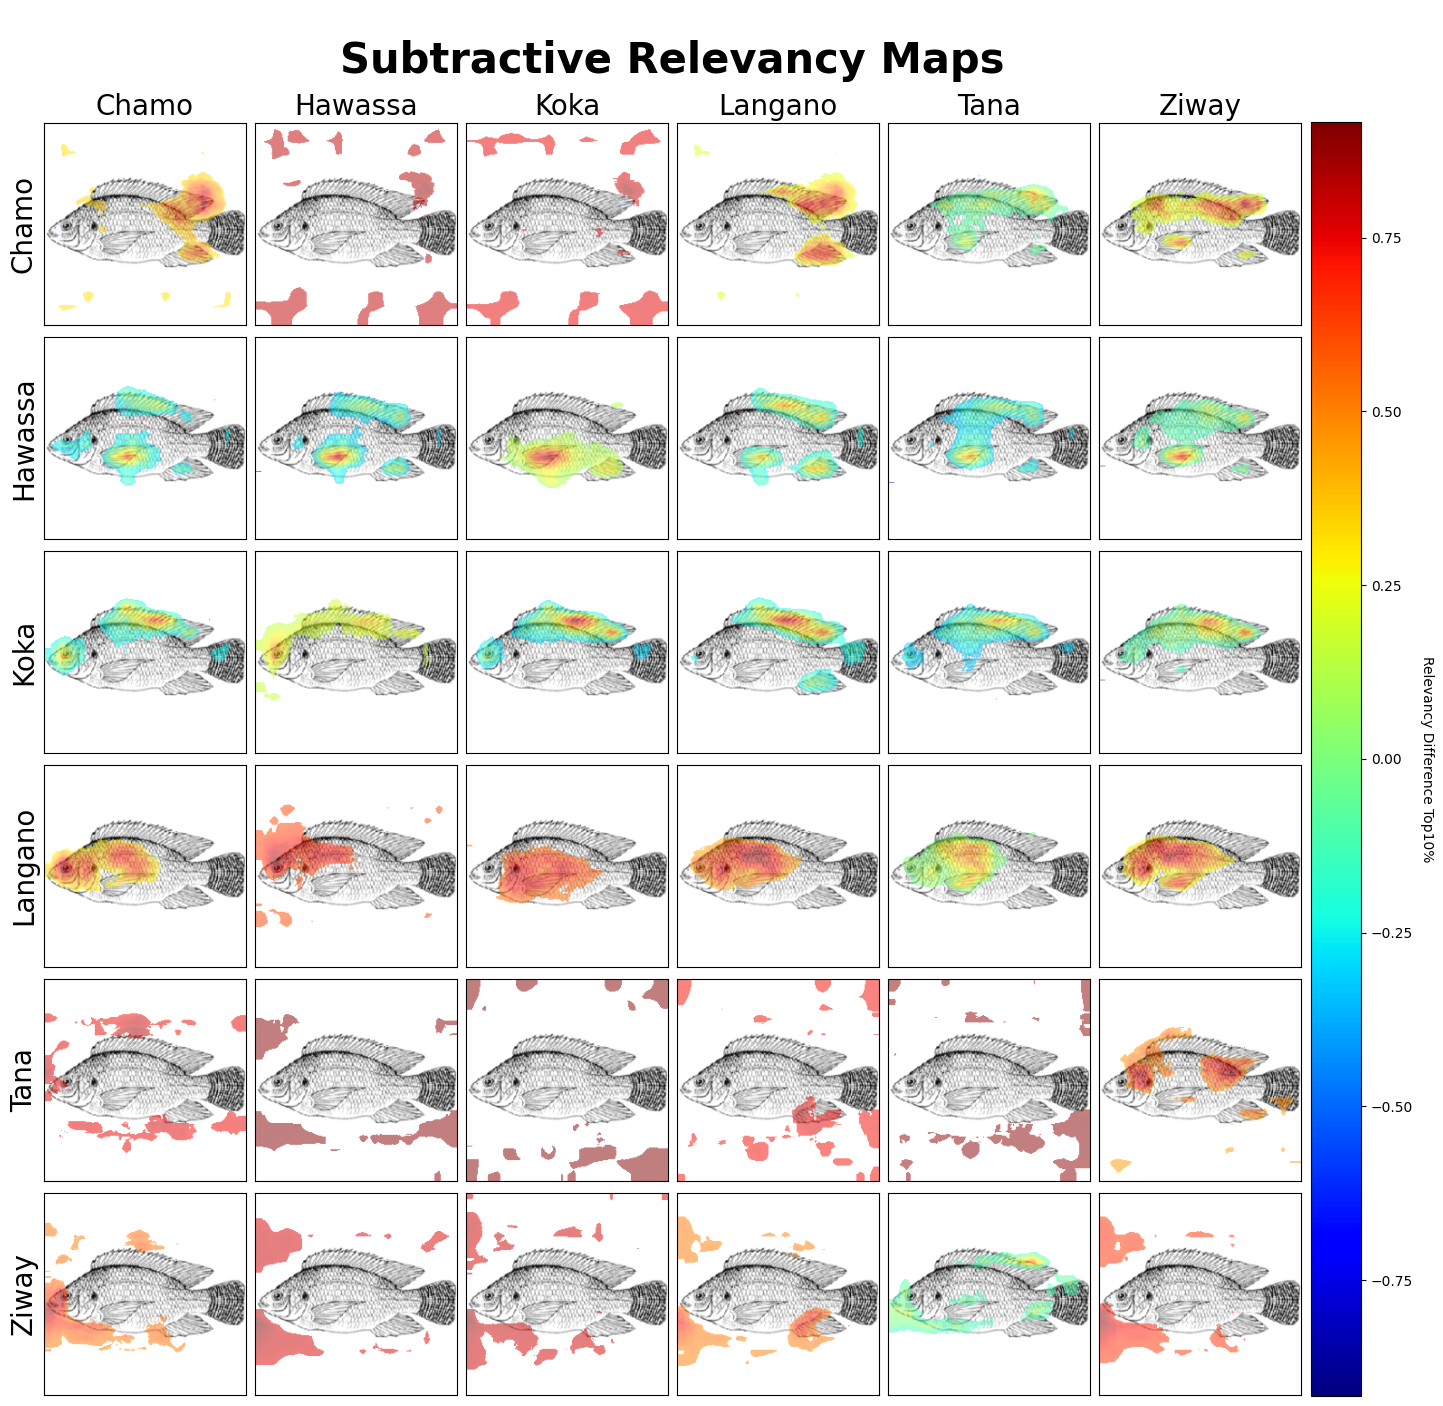
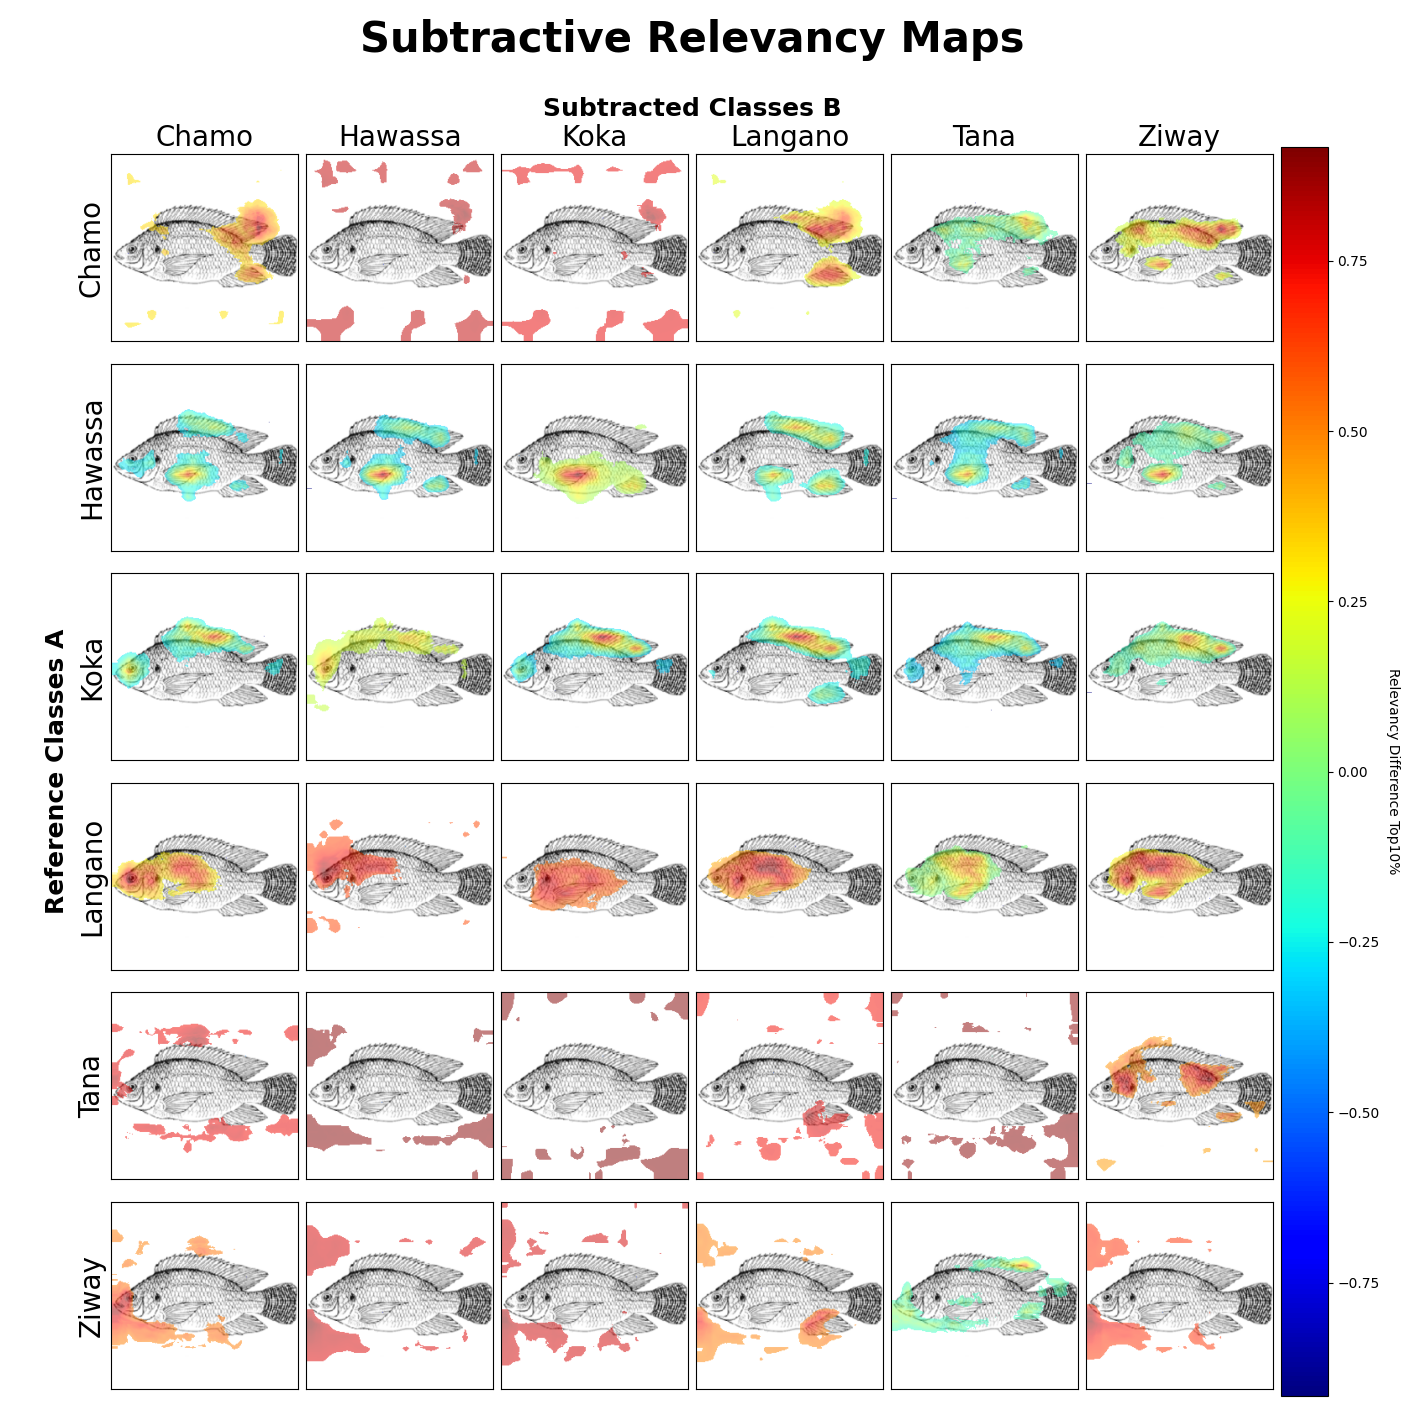
updated subtractive relevancy display

diff --git a/code/relevancy.py b/code/relevancy.py
@@ -54,23 +54,36 @@ def relevancySubstractions(classRelevancies):
     
     fig = plt.figure(figsize=(17, 18))
     
-    gs = gridspec.GridSpec(7, 7, figure=fig, 
-                          height_ratios=[0.5, 1, 1, 1, 1, 1, 1],
-                          width_ratios=[1, 1, 1, 1, 1, 1, 0.25],
+    gs = gridspec.GridSpec(8, 8, figure=fig, 
+                          height_ratios=[0.3, 0.3, 1, 1, 1, 1, 1, 1],  # Added extra row at top
+                          width_ratios=[0.5, 1, 1, 1, 1, 1, 1, 0.25],  # Added extra column at left
                           hspace=0.05,  #vertical spacing
                           wspace=0.05)  #horizontal spacing
     
-    title_ax = fig.add_subplot(gs[0, :6]) 
+    title_ax = fig.add_subplot(gs[0, 1:7])  # Adjusted for new grid
     title_ax.text(0.5, 0.5, 'Subtractive Relevancy Maps', 
                   ha='center', va='center', fontsize=30, weight='bold')
     title_ax.axis('off')
     
+    # Y-axis label on the LEFT side
+    y_label_ax = fig.add_subplot(gs[2:8, 0])  # Left column, spanning main grid rows
+    y_label_ax.text(0.5, 0.5, 'Reference Classes A', 
+                    ha='center', va='center', fontsize=18, weight='bold', 
+                    rotation=90)
+    y_label_ax.axis('off')
+    
+    # X-axis label at the TOP RIGHT
+    x_label_ax = fig.add_subplot(gs[1, 1:7])  # Top row, spanning main grid columns
+    x_label_ax.text(0.5, 0.5, 'Subtracted Classes B', 
+                    ha='center', va='center', fontsize=18, weight='bold')
+    x_label_ax.axis('off')
+    
     axes = np.empty((6, 6), dtype=object)
     for i in range(6):
         for j in range(6):
-            axes[i, j] = fig.add_subplot(gs[i+1, j])
+            axes[i, j] = fig.add_subplot(gs[i+2, j+1])  # Adjusted for new grid layout
     
-    # Variables to track vmin/vmax for consistent colorbar
+    #for colorbar
     global_vmin = float('inf')
     global_vmax = float('-inf')
     
@@ -119,7 +132,7 @@ def relevancySubstractions(classRelevancies):
                 nClass2 = 0
     
     # Create proper colorbar using ScalarMappable
-    cbar_ax = fig.add_subplot(gs[1:7, 6])
+    cbar_ax = fig.add_subplot(gs[2:8, 7])  # Adjusted for new grid
     cmap = plt.cm.get_cmap(cmapType)
     norm = plt.Normalize(vmin=global_vmin, vmax=global_vmax)
     sm = plt.cm.ScalarMappable(cmap=cmap, norm=norm)
